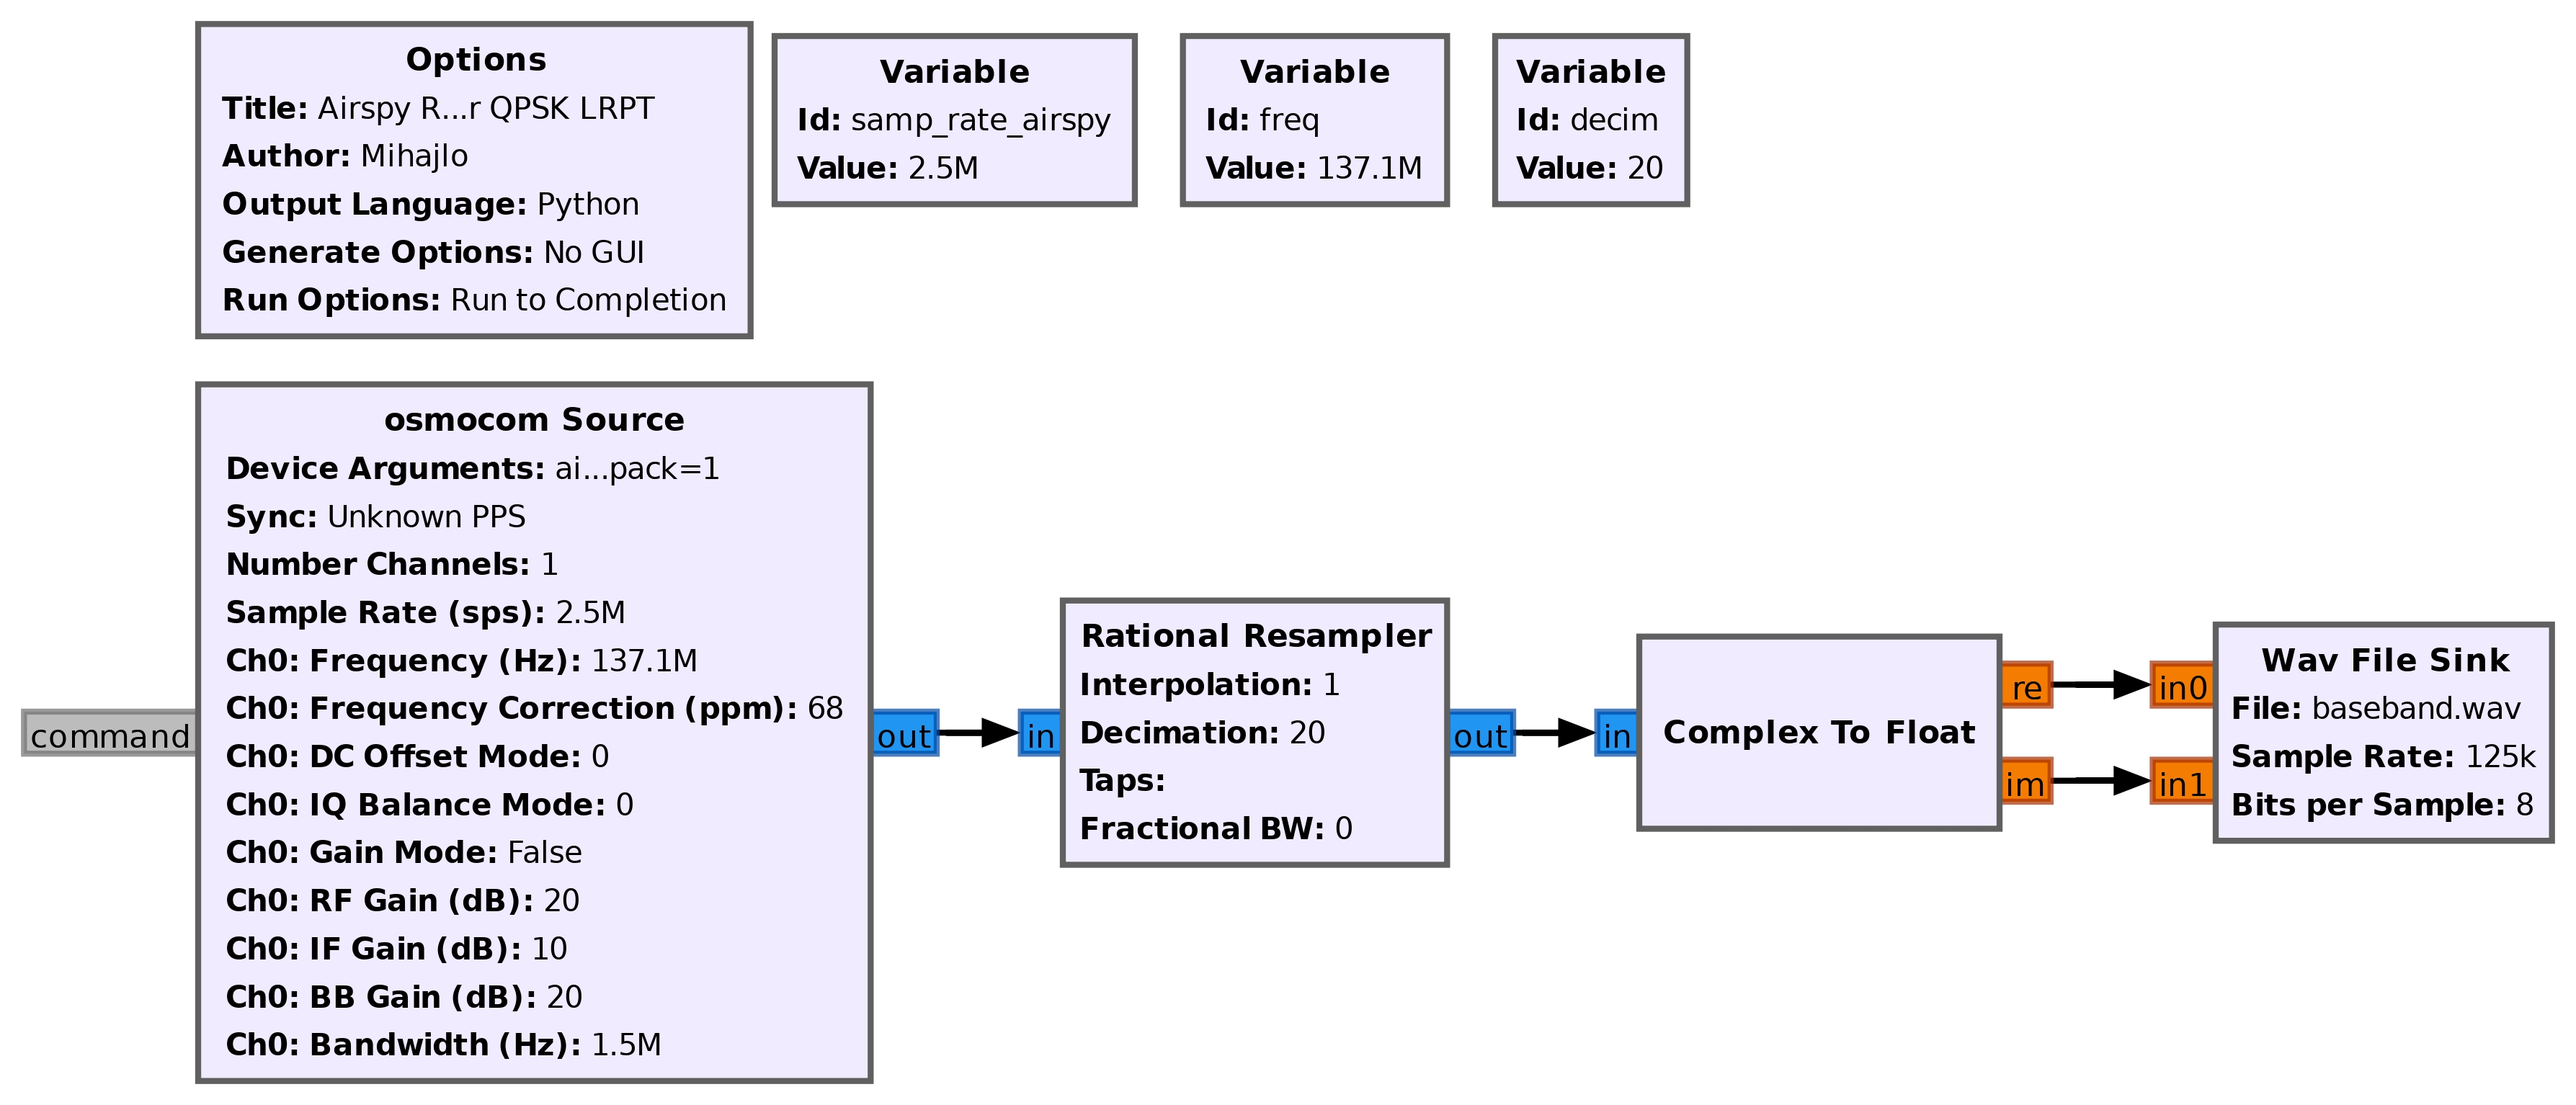
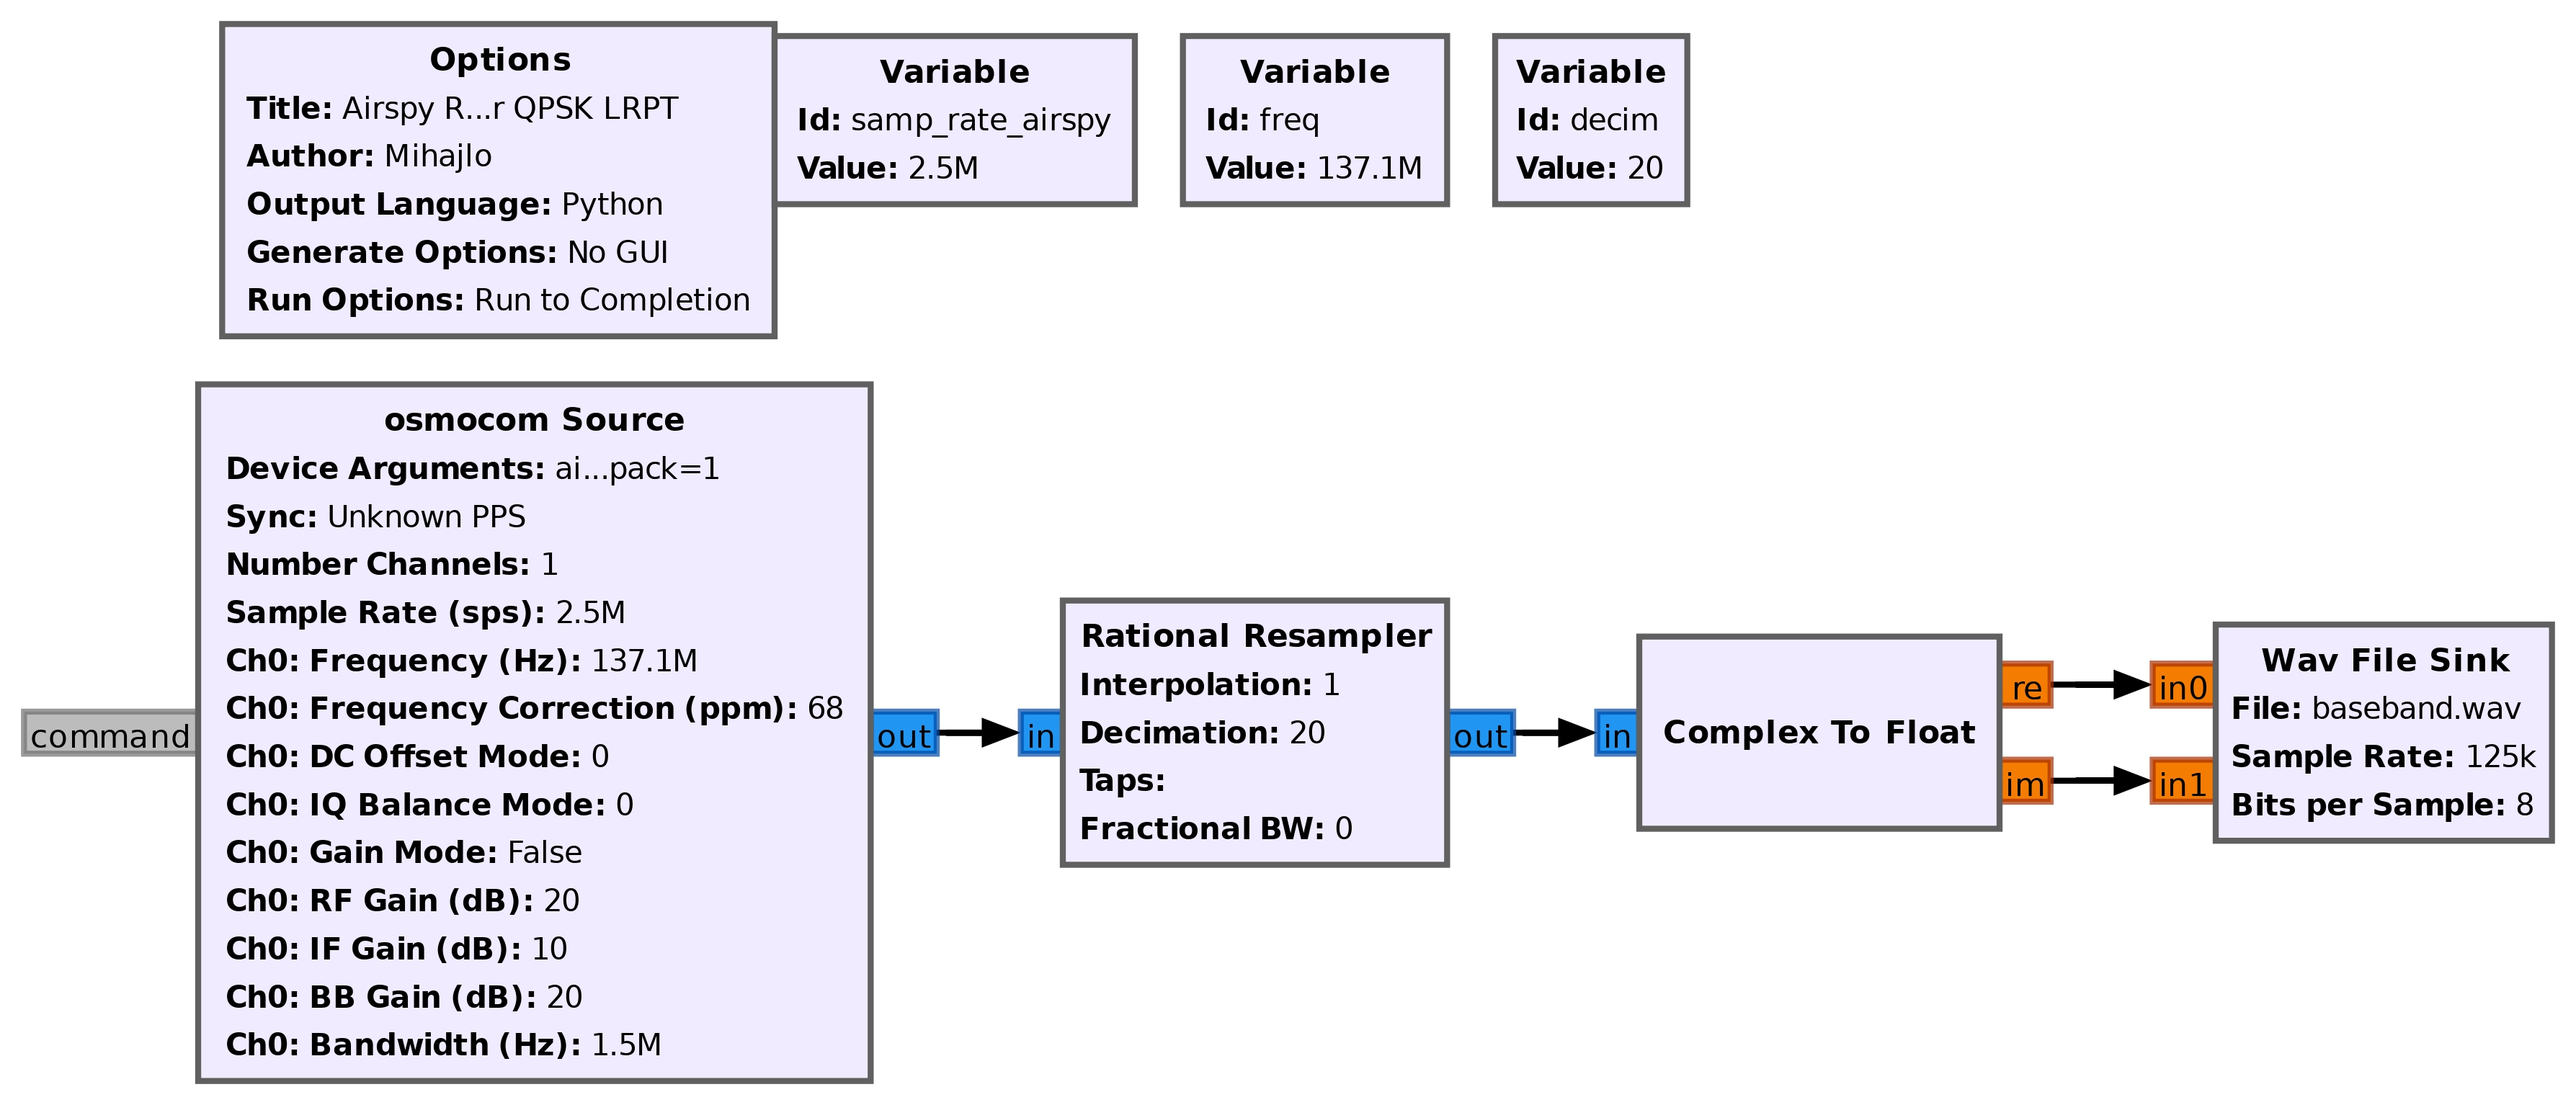
Fixing GNU Radio scripts not recording any baseband...

Changed region(s): [[0.0621, 0.0306, 0.3105, 0.3064]]

diff --git a/scripts/audio_processors/rtlsdr_m2_lrpt_rx.py b/scripts/audio_processors/rtlsdr_m2_lrpt_rx.py
@@ -32,10 +32,10 @@ class rtlsdr_m2_lrpt_rx(gr.top_block):
         # Arguments:
         #   1. Full path and name of stream file (including file extension)
         #   2. Gain to be used
-        #   3. Frequency offset (PPM)
-        #   4. SDR Device ID from settings.yml (for RTL-SDR source block)
-        #   5. Bias-T (0/1 for RTL-SDR)
-
+        #   3. Meteor Frequency (MHz)
+        #   4. Frequency offset (PPM)
+        #   5. SDR Device ID from settings.yml (for RTL-SDR source block)
+        #   6. Bias-T (0/1 for RTL-SDR)
 
         stream_name = sys.argv[1]
         gain = float(sys.argv[2])
@@ -65,12 +65,8 @@ class rtlsdr_m2_lrpt_rx(gr.top_block):
         self.rtlsdr_source_0.set_freq_corr(freq_offset, 0)
         self.rtlsdr_source_0.set_dc_offset_mode(0, 0)
         self.rtlsdr_source_0.set_iq_balance_mode(0, 0)
-        # determine if gain is specified or if auto-gain should be used
-        if (gain == 0):
-          self.rtlsdr_source_0.set_gain_mode(True, 0)
-        else:
-          self.rtlsdr_source_0.set_gain_mode(False, 0)
-          self.rtlsdr_source_0.set_gain(gain, 0)
+        self.rtlsdr_source_0.set_gain_mode(False, 0)
+        self.rtlsdr_source_0.set_gain(gain, 0)
         self.rtlsdr_source_0.set_if_gain(0, 0)
         self.rtlsdr_source_0.set_bb_gain(0, 0)
         self.rtlsdr_source_0.set_antenna('', 0)
@@ -83,8 +79,6 @@ class rtlsdr_m2_lrpt_rx(gr.top_block):
         self.blocks_wavfile_sink_0 = blocks.wavfile_sink(output_baseband, 2, int(samp_rate_rtlsdr/decim), 8)
         self.blocks_complex_to_float_0 = blocks.complex_to_float(1)
 
-
-
         ##################################################
         # Connections
         ##################################################
@@ -92,7 +86,6 @@ class rtlsdr_m2_lrpt_rx(gr.top_block):
         self.connect((self.blocks_complex_to_float_0, 0), (self.blocks_wavfile_sink_0, 0))
         self.connect((self.rational_resampler_xxx_0, 0), (self.blocks_complex_to_float_0, 0))
         self.connect((self.rtlsdr_source_0, 0), (self.rational_resampler_xxx_0, 0))
-
 
     def get_samp_rate_rtlsdr(self):
         return self.samp_rate_rtlsdr

diff --git a/scripts/audio_processors/hackrf_m2_lrpt_rx.py b/scripts/audio_processors/hackrf_m2_lrpt_rx.py
@@ -53,7 +53,7 @@ class hackrf_m2_lrpt_rx(gr.top_block):
                 decimation=decim,
                 taps=[],
                 fractional_bw=None)
-        self.osmosdr_source_0 = osmosdr.source(args="numchan=" + str(1) + " " + "hackrf=0,bias=" + bias_t)
+        self.osmosdr_source_0 = osmosdr.source(args="numchan=" + str(1) + " " + "hackrf=0,linearity,bias=" + bias_t)
         self.osmosdr_source_0.set_time_unknown_pps(osmosdr.time_spec_t())
         self.osmosdr_source_0.set_sample_rate(samp_rate_hackrf)
         self.osmosdr_source_0.set_center_freq(freq, 0)
@@ -61,9 +61,9 @@ class hackrf_m2_lrpt_rx(gr.top_block):
         self.osmosdr_source_0.set_dc_offset_mode(0, 0)
         self.osmosdr_source_0.set_iq_balance_mode(0, 0)
         self.osmosdr_source_0.set_gain_mode(False, 0)
-        self.osmosdr_source_0.set_gain(20, 0)
-        self.osmosdr_source_0.set_if_gain(10, 0)
-        self.osmosdr_source_0.set_bb_gain(20, 0)
+        self.osmosdr_source_0.set_gain(gain, 0)
+        self.osmosdr_source_0.set_if_gain(0, 0)
+        self.osmosdr_source_0.set_bb_gain(0, 0)
         self.osmosdr_source_0.set_antenna('', 0)
         self.osmosdr_source_0.set_bandwidth(1500000, 0)
         self.blocks_wavfile_sink_0 = blocks.wavfile_sink(output_baseband, 2, int(samp_rate_hackrf/decim), 8)
@@ -72,11 +72,10 @@ class hackrf_m2_lrpt_rx(gr.top_block):
         ##################################################
         # Connections
         ##################################################
-        self.connect((self.blocks_complex_to_float_0, 0), (self.blocks_wavfile_sink_0, 0))
         self.connect((self.blocks_complex_to_float_0, 1), (self.blocks_wavfile_sink_0, 1))
+        self.connect((self.blocks_complex_to_float_0, 0), (self.blocks_wavfile_sink_0, 0))
         self.connect((self.osmosdr_source_0, 0), (self.rational_resampler_xxx_0, 0))
         self.connect((self.rational_resampler_xxx_0, 0), (self.blocks_complex_to_float_0, 0))
-
 
     def get_samp_rate_hackrf(self):
         return self.samp_rate_hackrf

diff --git a/scripts/audio_processors/airspy_mini_m2_lrpt_rx.py b/scripts/audio_processors/airspy_mini_m2_lrpt_rx.py
@@ -45,14 +45,9 @@ class airspy_mini_m2_lrpt_rx(gr.top_block):
         self.decim = decim = 25
         output_baseband = stream_name
 
-        ###############################################################
-        # Blocks - note the fcd_freq, freq_offset rtl device, bias-t and gain are carried
-        #          in from settings.yml using the 'variables' block above.
-        #          NOTE: If you edit and replace this .py in gnucomposer
-        #          these will be overwritten with hard-coded values and
-        #          need to be manually reintroduced to make the script take
-        #          settings from your own settings.yml.
-        ################################################################
+        ##################################################
+        # Blocks
+        ##################################################
         self.rational_resampler_xxx_0 = filter.rational_resampler_ccc(
                 interpolation=1,
                 decimation=decim,
@@ -74,16 +69,13 @@ class airspy_mini_m2_lrpt_rx(gr.top_block):
         self.blocks_wavfile_sink_0 = blocks.wavfile_sink(output_baseband, 2, int(samp_rate_airspy/decim), 8)
         self.blocks_complex_to_float_0 = blocks.complex_to_float(1)
 
-
-
         ##################################################
         # Connections
         ##################################################
-        self.connect((self.blocks_complex_to_float_0, 1), (self.blocks_wavfile_sink_0, 1))
         self.connect((self.blocks_complex_to_float_0, 0), (self.blocks_wavfile_sink_0, 0))
+        self.connect((self.blocks_complex_to_float_0, 1), (self.blocks_wavfile_sink_0, 1))
         self.connect((self.osmosdr_source_0, 0), (self.rational_resampler_xxx_0, 0))
         self.connect((self.rational_resampler_xxx_0, 0), (self.blocks_complex_to_float_0, 0))
-
 
     def get_samp_rate_airspy(self):
         return self.samp_rate_airspy

diff --git a/scripts/audio_processors/airspy_r2_m2_lrpt_rx.py b/scripts/audio_processors/airspy_r2_m2_lrpt_rx.py
@@ -45,14 +45,9 @@ class airspy_r2_m2_lrpt_rx(gr.top_block):
         self.decim = decim = 20
         output_baseband = stream_name
 
-        ###############################################################
-        # Blocks - note the fcd_freq, freq_offset rtl device, bias-t and gain are carried
-        #          in from settings.yml using the 'variables' block above.
-        #          NOTE: If you edit and replace this .py in gnucomposer
-        #          these will be overwritten with hard-coded values and
-        #          need to be manually reintroduced to make the script take
-        #          settings from your own settings.yml.
-        ################################################################
+        ##################################################
+        # Blocks
+        ##################################################
         self.rational_resampler_xxx_0 = filter.rational_resampler_ccc(
                 interpolation=1,
                 decimation=decim,
@@ -81,7 +76,6 @@ class airspy_r2_m2_lrpt_rx(gr.top_block):
         self.connect((self.blocks_complex_to_float_0, 0), (self.blocks_wavfile_sink_0, 0))
         self.connect((self.osmosdr_source_0, 0), (self.rational_resampler_xxx_0, 0))
         self.connect((self.rational_resampler_xxx_0, 0), (self.blocks_complex_to_float_0, 0))
-
 
     def get_samp_rate_airspy(self):
         return self.samp_rate_airspy

diff --git a/scripts/audio_processors/airspy_r2_noaa_apt_rx.py b/scripts/audio_processors/airspy_r2_noaa_apt_rx.py
@@ -79,7 +79,7 @@ class rtlsdr_noaa_apt_rx(gr.top_block):
                 taps=None,
                 fractional_bw=None)
         self.osmosdr_source_0 = osmosdr.source(
-            args="numchan=" + str(1) + " " + "airspy=0,pack=1" + ",bias=" + bias_t + ""
+            args="numchan=" + str(1) + " " + "airspy=0,pack=1,linearity,bias=" + bias_t + ""
         )
         self.osmosdr_source_0.set_time_unknown_pps(osmosdr.time_spec_t())
         self.osmosdr_source_0.set_sample_rate(2500000)
@@ -88,8 +88,8 @@ class rtlsdr_noaa_apt_rx(gr.top_block):
         self.osmosdr_source_0.set_dc_offset_mode(0, 0)
         self.osmosdr_source_0.set_iq_balance_mode(0, 0)
         self.osmosdr_source_0.set_gain_mode(False, 0)
-        self.osmosdr_source_0.set_gain(17, 0)
-        self.osmosdr_source_0.set_if_gain(12, 0)
+        self.osmosdr_source_0.set_gain(gain, 0)
+        self.osmosdr_source_0.set_if_gain(0, 0)
         self.osmosdr_source_0.set_bb_gain(0, 0)
         self.osmosdr_source_0.set_antenna('', 0)
         self.osmosdr_source_0.set_bandwidth(0, 0)
